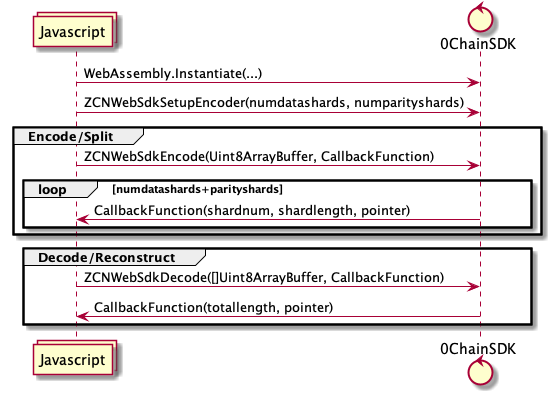
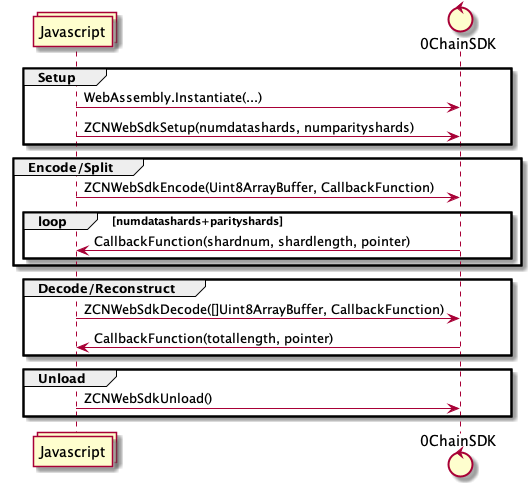
Added unload function to free go resources.

diff --git a/code/go/src/0chain.net/websdk/index.html b/code/go/src/0chain.net/websdk/index.html
@@ -47,7 +47,7 @@ license that can be found in the LICENSE file.
             reader.onload = function (e) {
                 console.log(file.name, reader.result); 
                 var uint8View = new Uint8Array(reader.result);
-                ZCNWebSdkSetupEncoder(10,6);
+                ZCNWebSdkSetup(10,6);
                 ZCNWebSdkEncode(uint8View, "encodeDone");
             }
 
@@ -60,12 +60,18 @@ license that can be found in the LICENSE file.
             ZCNWebSdkDecode(encodedData, "decodeDone");
         }
 
+        function OnUnload() {
+            ZCNWebSdkUnload();
+        }
+
     </script>
 
     <div />
     <input type="file" name="testfile" onchange="onFileChange(this)" />
     <div />
     <button onClick="OnDecode();" id="decodeButton">Do Decode</button>
+    <div />
+    <button onClick="OnUnload();" id="releaseButton">Unload</button>
 </body>
 
 </html>

diff --git a/code/go/src/0chain.net/websdk/websdk.go b/code/go/src/0chain.net/websdk/websdk.go
@@ -31,22 +31,16 @@ var WebSDK ZCNStreamEncoder
 func init() {
 	WebSDK.dataShards 		= 	DATA_SHARDS_DEFAULT
 	WebSDK.parityShards 	= 	PARITY_SHARDS_DEFAULT
-	WebSDK.setupCb			=	js.NewCallback(ZCNWebSdkSetupEncoder)
+	WebSDK.setupCb			=	js.NewCallback(ZCNWebSdkSetup)
 	WebSDK.encodeCb			=	js.NewCallback(ZCNWebSdkEncode)
 	WebSDK.decodeCb			= 	js.NewCallback(ZCNWebSdkDecode)
 	WebSDK.unloadCh			= 	make(chan struct{})
-	WebSDK.unloadCb			= 	js.NewEventCallback(0, unload)
-	addEventListener 		:= 	js.Global().Get("addEventListener")
-	addEventListener.Invoke("beforeunload", WebSDK.unloadCb)
-}
-
-func unload(event js.Value) {
-	WebSDK.unloadCh <- struct {} {}
+	WebSDK.unloadCb			= 	js.NewCallback(ZCNWebSdkUnload)
 }
 
 // args[0] : Number of data shards
 // args[1] : Number of parity shards
-func ZCNWebSdkSetupEncoder(args []js.Value) {
+func ZCNWebSdkSetup(args []js.Value) {
 	if (len(args) < 2) {
 		return
 	}
@@ -54,7 +48,7 @@ func ZCNWebSdkSetupEncoder(args []js.Value) {
 	parityShards	:= args[1].Int()
 	enc, err 	:= reedsolomon.New(dataShards, parityShards)
 	if err != nil {
-		fmt.Println("ZCNWebSdkSetupEncoder(): ",err.Error())
+		fmt.Println("ZCNWebSdkSetup(): ",err.Error())
 		return
 	}
 	WebSDK.encoder 		= enc
@@ -143,10 +137,17 @@ func ZCNWebSdkDecode(args []js.Value) {
 	js.Global().Call(js.ValueOf(args[1]).String(), len(outBuf), ptr)
 }
 
+// No argument
+func ZCNWebSdkUnload(args []js.Value) {
+	WebSDK.unloadCh <- struct {} {}
+}
+
+
 func exportFunctions() {
-	js.Global().Set("ZCNWebSdkSetupEncoder", WebSDK.setupCb)
+	js.Global().Set("ZCNWebSdkSetup", WebSDK.setupCb)
 	js.Global().Set("ZCNWebSdkEncode", WebSDK.encodeCb)
 	js.Global().Set("ZCNWebSdkDecode", WebSDK.decodeCb)
+	js.Global().Set("ZCNWebSdkUnload", WebSDK.unloadCb)
 }
 
 func releaseFunctions() {
